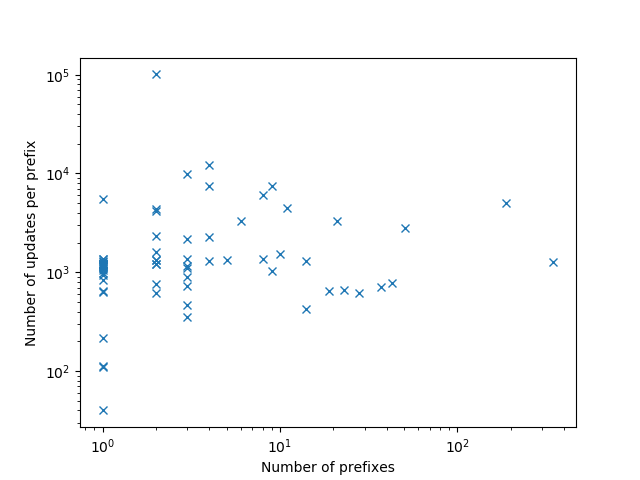
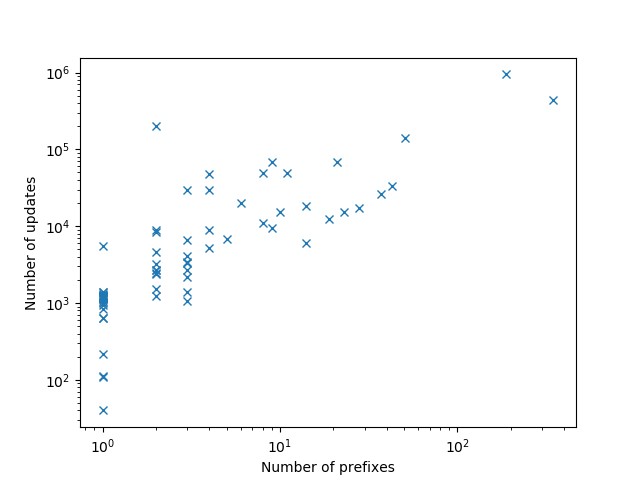
add nb updates

diff --git a/plot-country-updates.py b/plot-country-updates.py
@@ -33,11 +33,18 @@ for output_file in sorted(glob.glob(os.path.join(output_path, '*.txt'))):
         merge_nb_updates.append(np.log10(nb_updates))
         merge_update_ratio.append(np.log10(update_ratio))
 
+        nb_updates_fig = plt.figure()
+        plt.loglog(nb_prefixes,nb_updates,'x')
+        plt.xlabel('Number of prefixes')
+        plt.ylabel('Number of updates')
+        nb_updates_fig.savefig(figure_path+'nb-updates-'+country_code+'-'+timestamp+'.png')
+        plt.close(nb_updates_fig)
+        
         update_ratio_fig = plt.figure()
         plt.loglog(nb_prefixes,update_ratio,'x')
         plt.xlabel('Number of prefixes')
         plt.ylabel('Number of updates per prefix')
-        update_ratio_fig.savefig(figure_path+'nb-updates-'+country_code+'-'+timestamp+'.png')
+        update_ratio_fig.savefig(figure_path+'update-ratio-'+country_code+'-'+timestamp+'.png')
         plt.close(update_ratio_fig)
 
 fig, ax = plt.subplots()
@@ -59,22 +66,4 @@ plt.setp(ax, xticks=[y+1 for y in range(len(merge_update_ratio))],
          xticklabels=country_codes)
 fig.savefig(figure_path+'update-ratio-menog-'+timestamp+'.png')
 plt.close(fig)
-
-#    nb_update_fig = plt.figure()
-#    plt.semilogy(x,y,'x')
-#    plt.xlabel('Number of prefixes')
-#    plt.ylabel('Number of updates')
-#    plt.title('BGP updates in last two weeks')
-#    plt.legend()
-#    nb_update_fig.savefig('nb-updates'+output_file.replace(".txt","")+'.png')
-#    plt.close(nb_update_fig)
-
-#    update_ratio_fig = plt.figure()
-#    plt.loglog(x,z,'x')
-#    plt.xlabel('Number of prefixes')
-#    plt.ylabel('Update ratio')
-#    plt.title('BGP update ratio in last two weeks')
-#    plt.legend()
-#    update_ratio_fig.savefig(output_file.replace(".txt","")+'-update-ratio.png')
-#    plt.close(update_ratio_fig)
 
